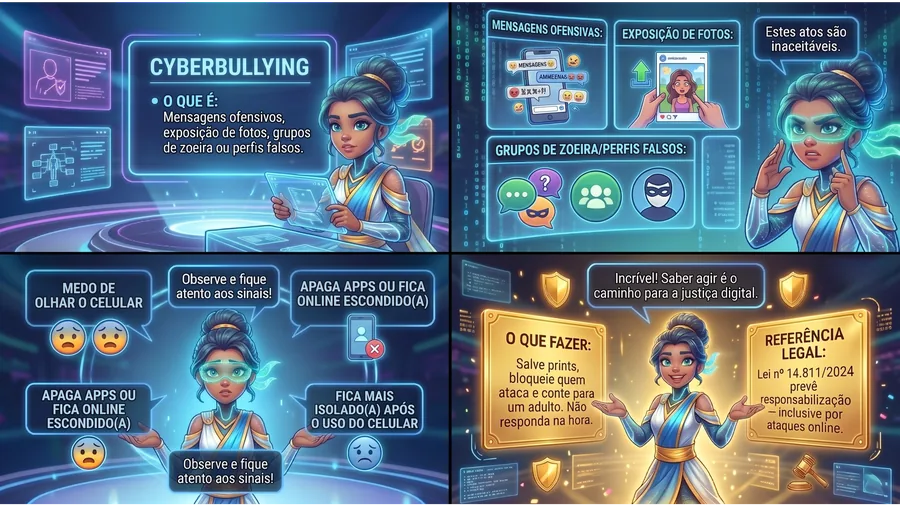
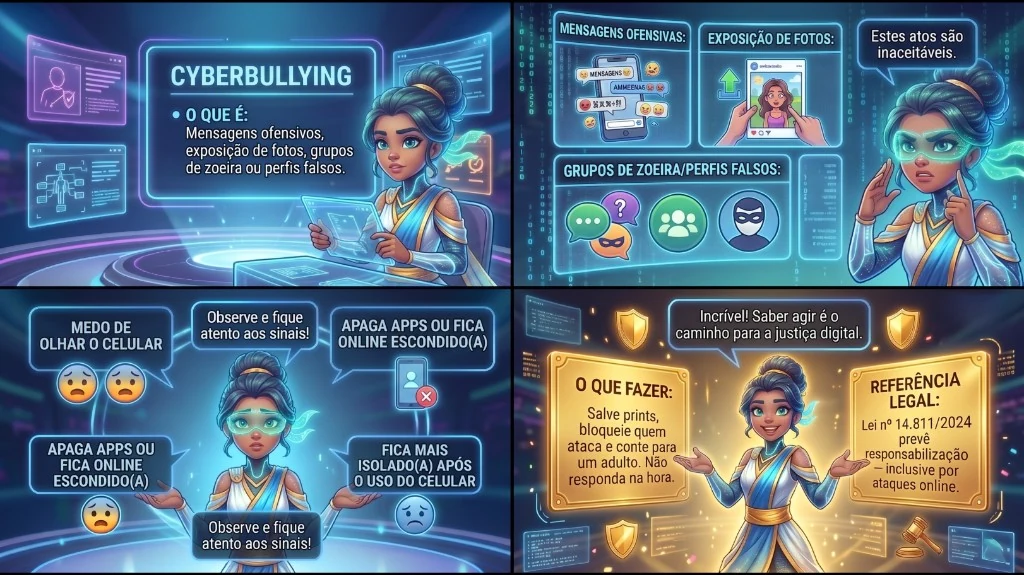
Atualiza imagem de detalhe do cyberbullying com arte oficial da Ju.
Substitui 8.webp pela ilustração correta de CYBERBULLYING e invalida cache do navegador.

diff --git a/educativo-faixas.js b/educativo-faixas.js
@@ -149,7 +149,7 @@
       title: 'Cyberbullying',
       className: 'fx-flip-card--cyber',
       coverImage: 'assets/cards/CAPACYBER.webp',
-      faixaImage: 'assets/cards/8.webp?v=2',
+      faixaImage: 'assets/cards/8.webp?v=3',
       exemplo: 'Posts humilhantes, perfil falso, mensagens de ódio, exposição de fotos sem permissão.',
       sinais: ['Ansiedade ao usar celular, evita redes sociais, chora após usar o celular.'],
       fazer: 'Não responda. Salve prints. Bloqueie. Conte para um adulto. Denuncie na plataforma.',

diff --git a/educativo.js b/educativo.js
@@ -769,7 +769,7 @@
       fisico: 'assets/cards/5.webp',
       verbal: 'assets/cards/6.webp',
       social: 'assets/cards/7.webp',
-      cyber: 'assets/cards/8.webp?v=2',
+      cyber: 'assets/cards/8.webp?v=3',
     };
   }
 